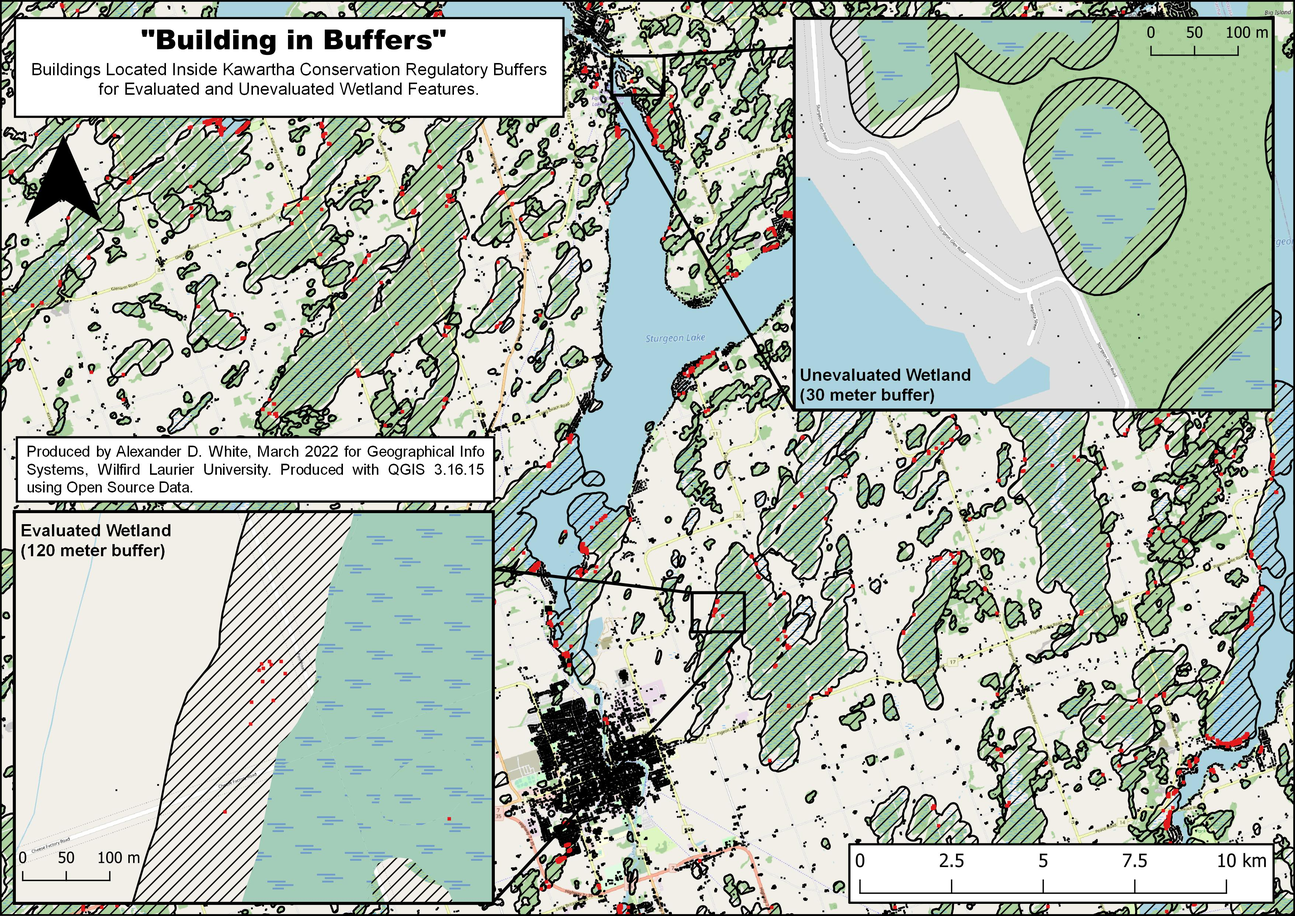
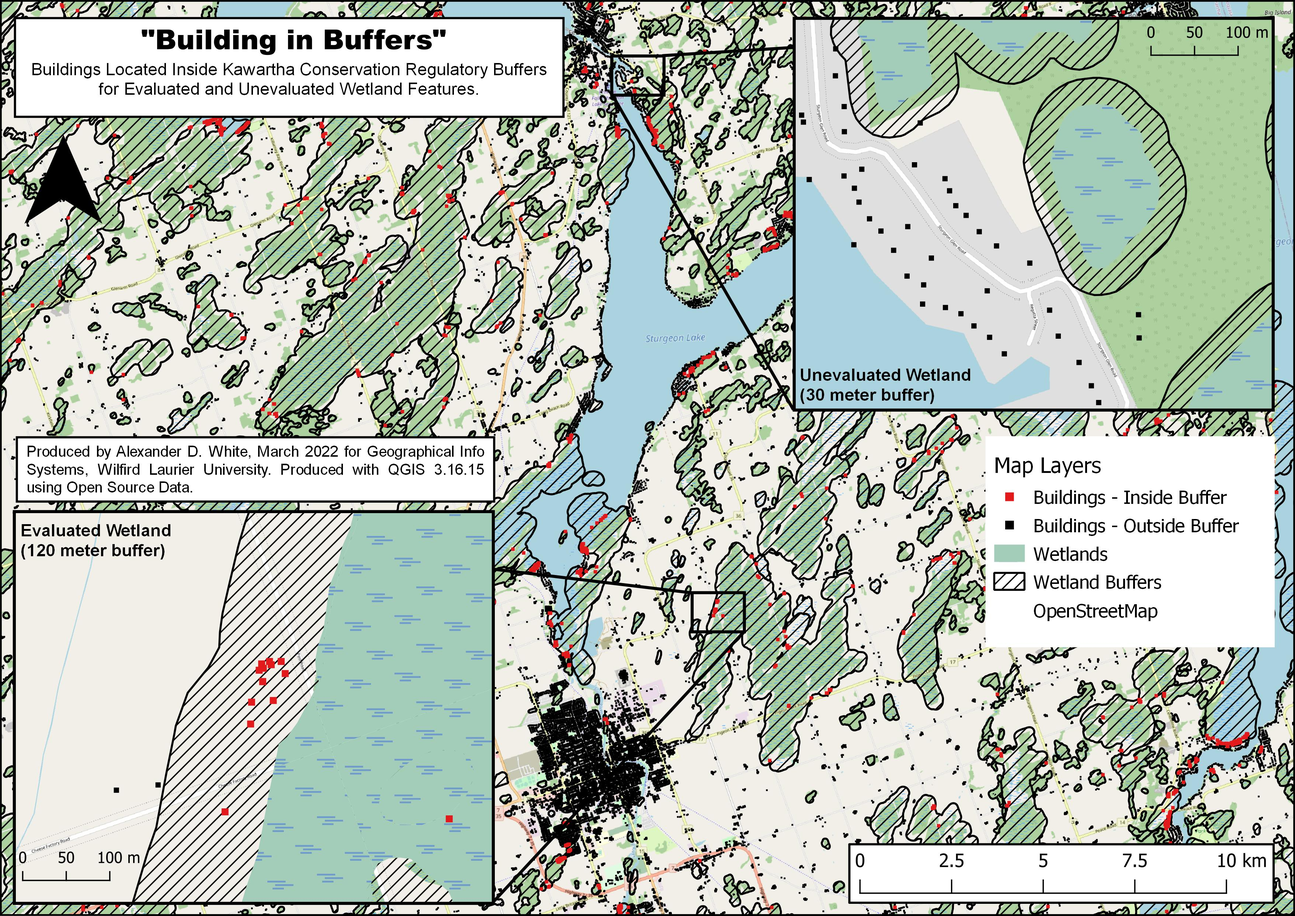
Commit to main

Changed region(s): [[0.7449, 0.4648, 0.9932, 0.7127], [0.1862, 0.7127, 0.2173, 0.7746]]

diff --git a/README.md b/README.md
@@ -1,18 +1,19 @@
 # Kawartha Lakes Wetland Buffer Map
 
-These files are part of a assignment for the GG369 - Geographic Information Systems class at Wilfrid Laurier University, Ontario, Canada. The project uses GQIS, OpenStreetMaps and OpenGov (Ontario GeoHub) data. Wetland Buffers use Kawartha Conservation (https://www.kawarthaconservation.com) regulation policy standards. 
+These files are part of a assignment for the GG369 - Geographic Information Systems class at Wilfrid Laurier University, Ontario, Canada. The project uses GQIS, OpenStreetMaps and OpenGov (Ontario GeoHub) data. Wetland Buffers use Kawartha Conservation (https://www.kawarthaconservation.com) regulation policy. 
 
 ## Map
 ![GG369 Map 1](GG369_WetlandMap.jpg)
 
-###  Map Walkthough
+## Source Layers:
+- Ontario Hydro Network (OHN) - Waterbody 
+(https://geohub.lio.gov.on.ca/datasets/mnrf::ontario-hydro-network-ohn-waterbody/about)
+- Ontario Wetland Evaluation Systems - Wetlands 
+(https://geohub.lio.gov.on.ca/datasets/mnrf::wetlands/about)
+- Ontario MNRF - Building as Symbol 
+(https://geohub.lio.gov.on.ca/datasets/mnrf::building-as-symbol/about)
 
-Source Layers:
-- Ontario Hydro Network (OHN) - Waterbody (https://geohub.lio.gov.on.ca/datasets/mnrf::ontario-hydro-network-ohn-waterbody/about)
-- Ontario Wetland Evaluation Systems - Wetlands (https://geohub.lio.gov.on.ca/datasets/mnrf::wetlands/about)
-- Ontario MNRF - Building as Symbol (https://geohub.lio.gov.on.ca/datasets/mnrf::building-as-symbol/about)
-
-Proccess Walkthrough:
+## Proccess Walkthrough:
 - Add XYZ Layer (OpenStreetMap)
 - Define Map Extent
      - Create New ShapeFile Layer (Polygon)
@@ -22,9 +23,23 @@ Proccess Walkthrough:
     - Ont_Wetlands.shp
     - Ont_Waterbodies.shp
     - Ont_Buildings.shp
-- Data Management Tools > Reproject Layers
     - Reproject from WGS 84 to NAD83 17N (Required for accuate buffering)
 - Clip Each Layer to "Map Boundary".
 - Seperate Evaluted and Unevaulated wetlands
-    - Duplicate Wetland Layer
-    - 
+    - Duplicate "Ont_Wetland" Layer
+    - Rename "Evaluated Wetland" and "Unevaluated Wetland"
+    - Open Attribute table for "Evaluated Wetland", Toggle Editing
+    - Filter Features for "Unevaluated", Select Features, Delete Selcted Features
+    - Repeat for "Unevaluated Layer"
+- Create Wetland Buffers
+    - Create 120m Buffer for "Evaluated Wetland" 
+    - Create 30m Buffer for "Unevaluated Wetland"
+    - Find Diffrence of Evaluated and Unevaluated buffers to remove overlap
+    (Plan was to show buildings in 30m and 120m buff seperatly, Map too crowded, no real benift, VETO'd)
+    - Merge Evaluated Buffer with result of diffrence Layer, rename "Wetland Buffers"
+- Seperete Buildings based on buffer
+    - Find Diffrence between "Ont_Buildings" and "Wetland Buffers", Rename Result "Buildings - Outside Buffer"
+    - Clip "Ont_Buildings" with "Wetland Buffers", Rename Result "Buildings - Inside Buffer"
+- Create Map Layout
+    - Create Self Explanitory...
+
